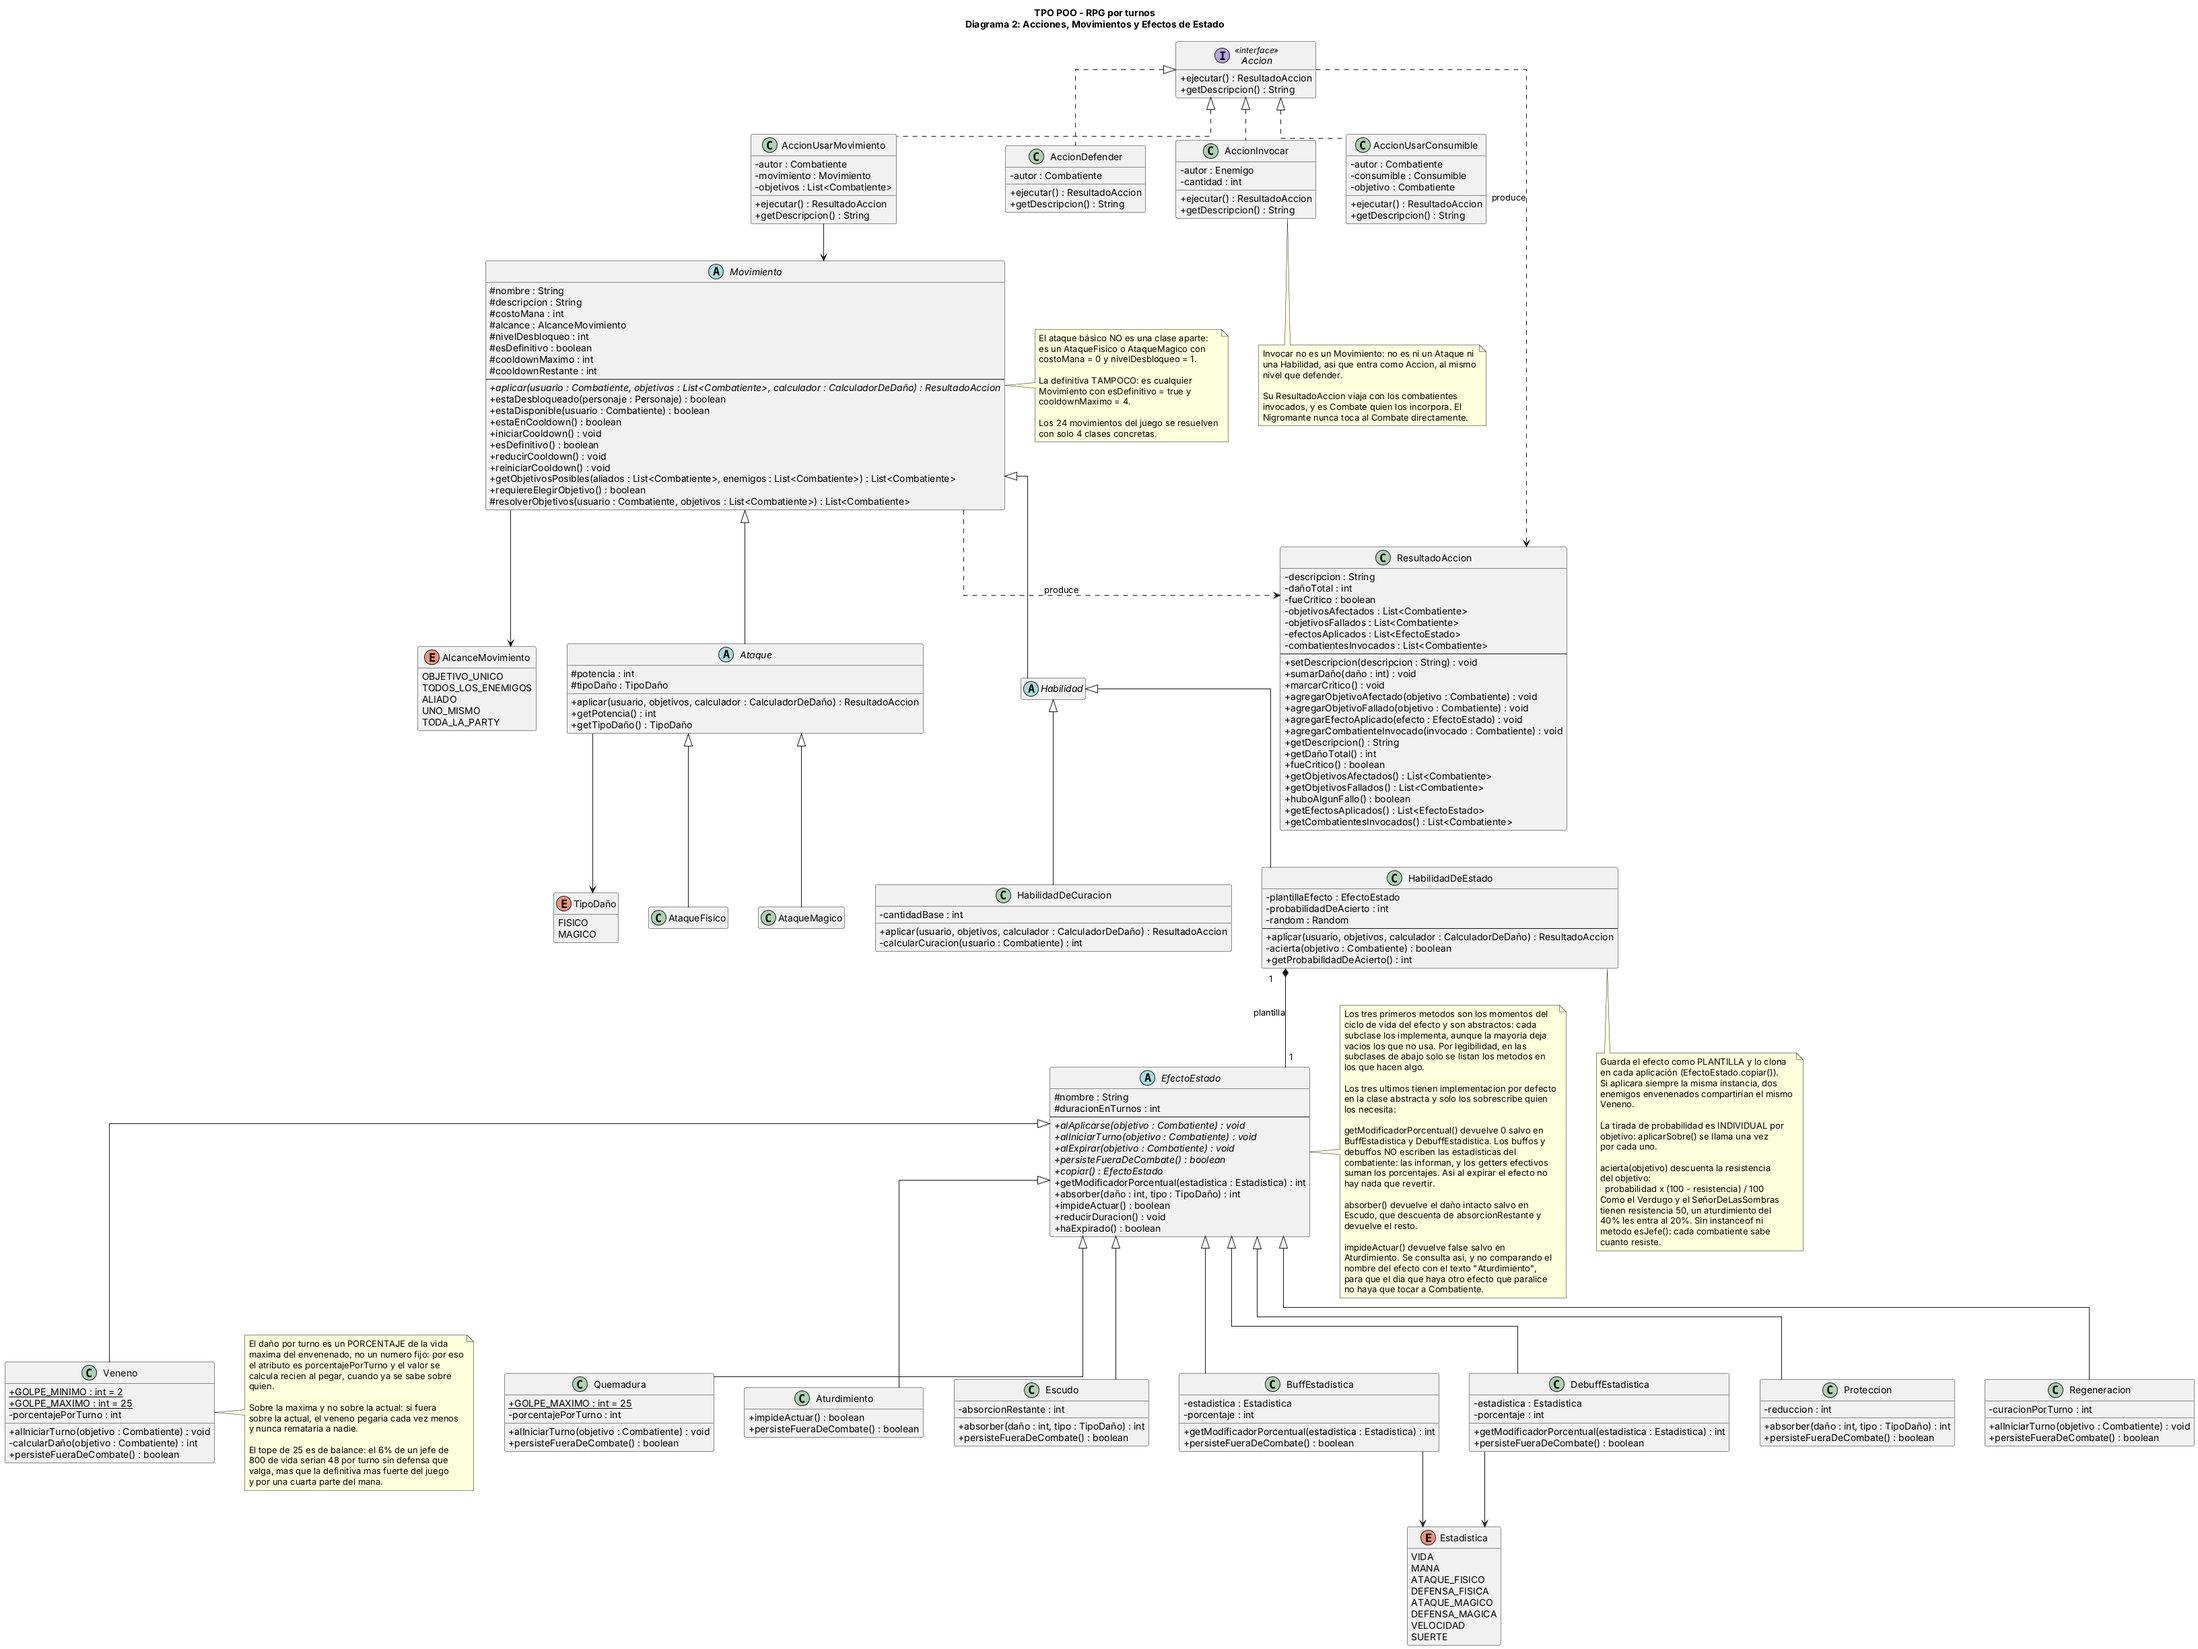
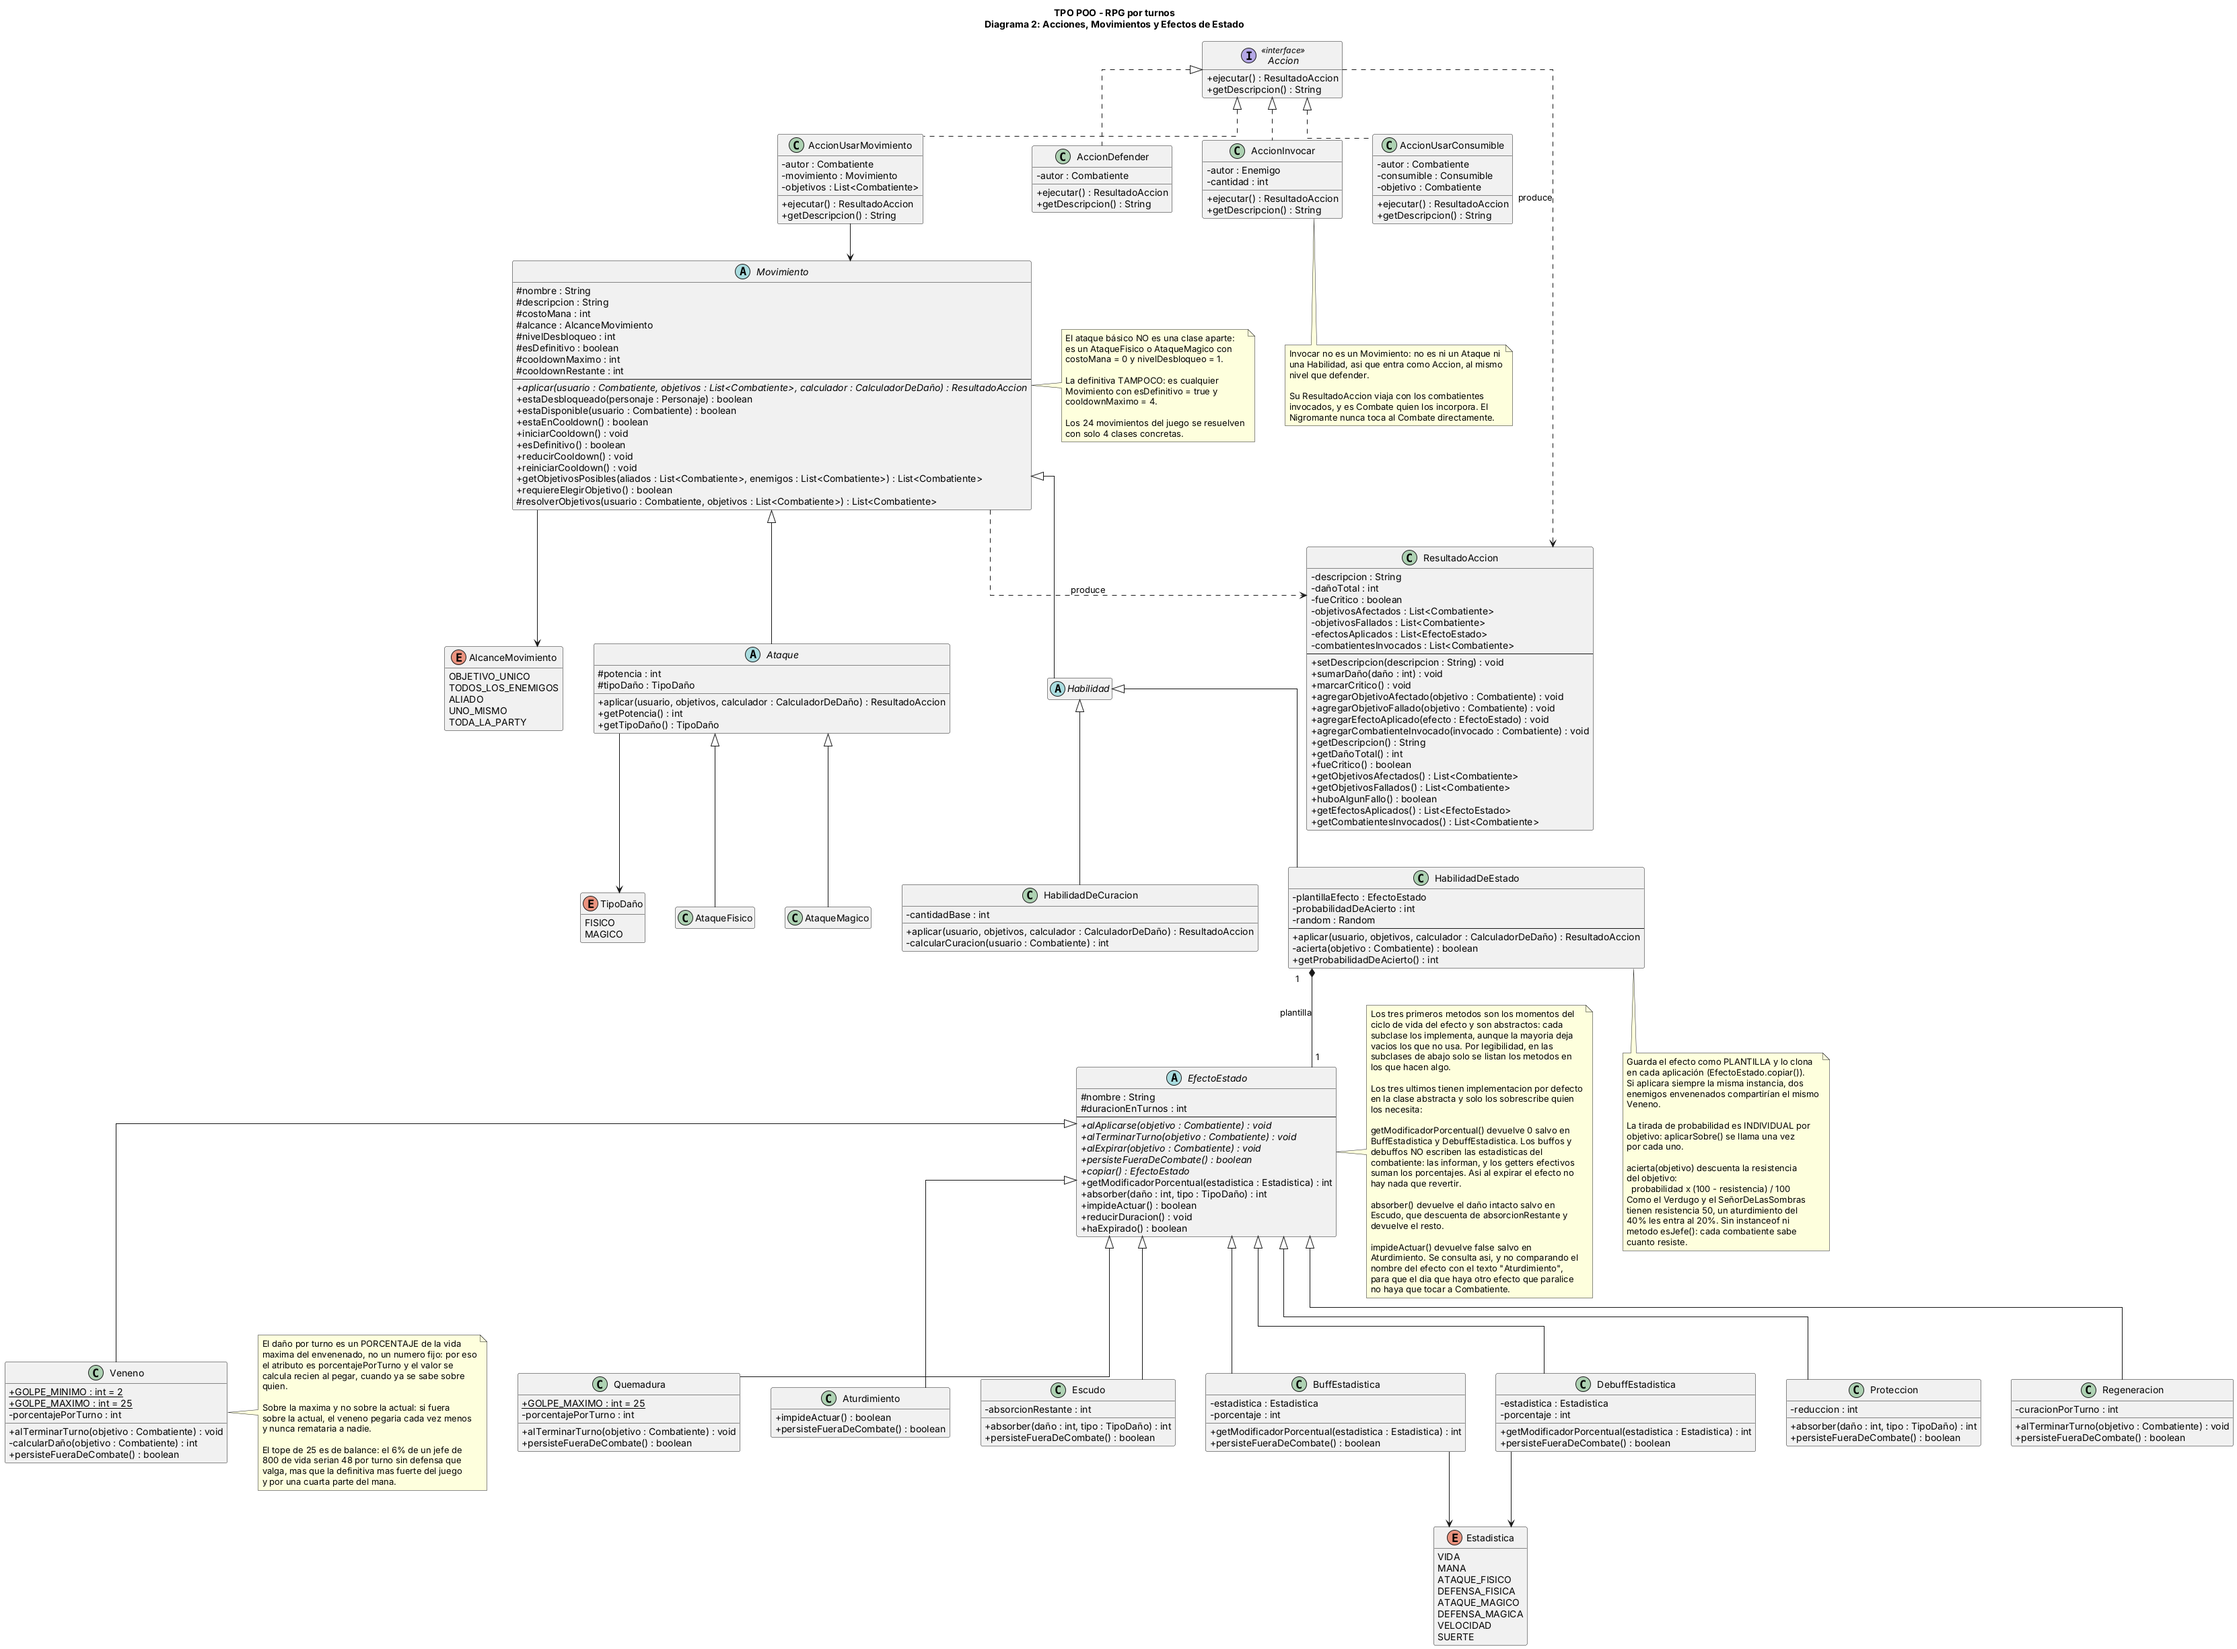
alIniciarTurno pasa a alTerminarTurno y ejecutarAccion abre el turno
- Desde el arreglo del ciclo de turnos el hook de los efectos corre al
  cerrar el turno: el nombre ahora lo dice (EfectoEstado, las 8
  subclases, Combatiente y el diagrama 2).
- Combate.ejecutarAccion() llama primero a getSiguienteEnActuar(): una
  Accion armada afuera ya no cierra el turno de quien actuo antes.
  Test nuevo en TurnosTest (falla sin el arreglo).

Claude-Session: https://claude.ai/code/session_014iKvqo4DemZrQdAbdPMr27

diff --git a/src/test/java/ar/edu/uade/rpg/TurnosTest.java b/src/test/java/ar/edu/uade/rpg/TurnosTest.java
@@ -119,6 +119,21 @@ class TurnosTest {
     }
 
     @Test
+    void unaAccionArmadaAfueraCierraElTurnoDeQuienCorresponde() {
+        Combate combate = combateContraUnBruto();
+        Combatiente primero = combate.getSiguienteEnActuar();
+        cerrarElTurnoActual(combate);
+
+        // El primero ya actuo. Se lo envenena y, SIN pedir el turno siguiente,
+        // se ejecuta una accion armada afuera: el cierre no le toca a el.
+        primero.aplicarEfecto(new Veneno(6, 3));
+        int vidaAntes = primero.getVidaActual();
+        combate.ejecutarAccion(new AccionDefender(primero));
+
+        assertEquals(vidaAntes, primero.getVidaActual(), "el veneno no le pega en un turno ajeno");
+    }
+
+    @Test
     void siCaeAlguienQueYaActuoElSiguienteNoPierdeSuTurno() {
         Guerrero lucas = new Guerrero("Lucas");
         Mago giovanni = new Mago("Giovanni");

diff --git a/src/main/java/ar/edu/uade/rpg/modelo/efectos/EfectoEstado.java b/src/main/java/ar/edu/uade/rpg/modelo/efectos/EfectoEstado.java
@@ -15,7 +15,8 @@ import ar.edu.uade.rpg.modelo.movimientos.Estadistica;
  *
  * Define tres momentos y cada subclase usa los que necesita:
  *   - alAplicarse:   una sola vez, cuando el efecto entra.
- *   - alIniciarTurno: al comienzo de cada turno del afectado.
+ *   - alTerminarTurno: al final de cada turno del afectado, lo haya jugado
+ *                    o lo haya perdido aturdido. El veneno pega aca.
  *   - alExpirar:     cuando el efecto se va.
  *
  * El Veneno solo usa el del medio; el Escudo usa el primero y el ultimo.
@@ -36,7 +37,7 @@ public abstract class EfectoEstado implements Serializable {
 
     public abstract void alAplicarse(Combatiente objetivo);
 
-    public abstract void alIniciarTurno(Combatiente objetivo);
+    public abstract void alTerminarTurno(Combatiente objetivo);
 
     public abstract void alExpirar(Combatiente objetivo);
 

diff --git a/src/main/java/ar/edu/uade/rpg/modelo/combatientes/Combatiente.java b/src/main/java/ar/edu/uade/rpg/modelo/combatientes/Combatiente.java
@@ -100,7 +100,7 @@ public abstract class Combatiente implements Serializable {
 
     /**
      * Daño que no pasa por defensas ni por escudos: el del veneno y el de la
-     * quemadura. Lo usan esos efectos desde su alIniciarTurno.
+     * quemadura. Lo usan esos efectos desde su alTerminarTurno.
      */
     public int recibirDañoDirecto(int daño) {
         int dañoAplicado = Math.min(daño, vidaActual);
@@ -211,7 +211,7 @@ public abstract class Combatiente implements Serializable {
         Iterator<EfectoEstado> iterador = efectosActivos.iterator();
         while (iterador.hasNext()) {
             EfectoEstado efecto = iterador.next();
-            efecto.alIniciarTurno(this);
+            efecto.alTerminarTurno(this);
             efecto.reducirDuracion();
             if (efecto.haExpirado()) {
                 efecto.alExpirar(this);

diff --git a/src/main/java/ar/edu/uade/rpg/modelo/efectos/Regeneracion.java b/src/main/java/ar/edu/uade/rpg/modelo/efectos/Regeneracion.java
@@ -3,7 +3,7 @@ package ar.edu.uade.rpg.modelo.efectos;
 import ar.edu.uade.rpg.modelo.combatientes.Combatiente;
 
 /**
- * Cura una cantidad fija al principio de cada turno del afectado. Es el
+ * Cura una cantidad fija al final de cada turno del afectado. Es el
  * espejo del Veneno. Ningun movimiento de las seis clases lo aplica: queda
  * para los consumibles de la tienda.
  */
@@ -22,7 +22,7 @@ public class Regeneracion extends EfectoEstado {
     }
 
     @Override
-    public void alIniciarTurno(Combatiente objetivo) {
+    public void alTerminarTurno(Combatiente objetivo) {
         objetivo.curar(curacionPorTurno);
     }
 

diff --git a/src/main/java/ar/edu/uade/rpg/modelo/combate/Combate.java b/src/main/java/ar/edu/uade/rpg/modelo/combate/Combate.java
@@ -203,8 +203,13 @@ public class Combate {
         return objetivos;
     }
 
-    /** El unico camino por el que pasa todo lo que se hace en un turno. */
+    /**
+     * El unico camino por el que pasa todo lo que se hace en un turno. Primero
+     * se asegura de que el turno este abierto, asi el cierre (avanzarTurno) se
+     * le aplica a quien corresponde aunque la Accion se haya armado afuera.
+     */
     public ResultadoAccion ejecutarAccion(Accion accion) {
+        getSiguienteEnActuar();
         ResultadoAccion resultado = accion.ejecutar();
         registro.add(resultado.getDescripcion());
 

diff --git a/src/main/java/ar/edu/uade/rpg/modelo/efectos/Quemadura.java b/src/main/java/ar/edu/uade/rpg/modelo/efectos/Quemadura.java
@@ -28,7 +28,7 @@ public class Quemadura extends EfectoEstado {
     }
 
     @Override
-    public void alIniciarTurno(Combatiente objetivo) {
+    public void alTerminarTurno(Combatiente objetivo) {
         int daño = objetivo.getVidaMaxima() * porcentajePorTurno / PORCENTAJE_TOTAL;
         objetivo.recibirDañoDirecto(Math.min(daño, GOLPE_MAXIMO));
     }

diff --git a/src/main/java/ar/edu/uade/rpg/modelo/efectos/DebuffEstadistica.java b/src/main/java/ar/edu/uade/rpg/modelo/efectos/DebuffEstadistica.java
@@ -36,7 +36,7 @@ public class DebuffEstadistica extends EfectoEstado {
     }
 
     @Override
-    public void alIniciarTurno(Combatiente objetivo) {
+    public void alTerminarTurno(Combatiente objetivo) {
         // Nada: no actua por turno, modifica mientras dura.
     }
 

diff --git a/src/main/java/ar/edu/uade/rpg/modelo/efectos/Aturdimiento.java b/src/main/java/ar/edu/uade/rpg/modelo/efectos/Aturdimiento.java
@@ -23,7 +23,7 @@ public class Aturdimiento extends EfectoEstado {
     }
 
     @Override
-    public void alIniciarTurno(Combatiente objetivo) {
+    public void alTerminarTurno(Combatiente objetivo) {
         // No hace daño: su efecto es que el turno no se juega.
     }
 

diff --git a/src/main/java/ar/edu/uade/rpg/modelo/efectos/BuffEstadistica.java b/src/main/java/ar/edu/uade/rpg/modelo/efectos/BuffEstadistica.java
@@ -34,7 +34,7 @@ public class BuffEstadistica extends EfectoEstado {
     }
 
     @Override
-    public void alIniciarTurno(Combatiente objetivo) {
+    public void alTerminarTurno(Combatiente objetivo) {
         // Nada: no actua por turno, modifica mientras dura.
     }
 

diff --git a/src/main/java/ar/edu/uade/rpg/modelo/efectos/Veneno.java b/src/main/java/ar/edu/uade/rpg/modelo/efectos/Veneno.java
@@ -34,7 +34,7 @@ public class Veneno extends EfectoEstado {
     }
 
     @Override
-    public void alIniciarTurno(Combatiente objetivo) {
+    public void alTerminarTurno(Combatiente objetivo) {
         objetivo.recibirDañoDirecto(calcularDaño(objetivo));
     }
 

diff --git a/src/main/java/ar/edu/uade/rpg/modelo/efectos/Escudo.java b/src/main/java/ar/edu/uade/rpg/modelo/efectos/Escudo.java
@@ -35,7 +35,7 @@ public class Escudo extends EfectoEstado {
     }
 
     @Override
-    public void alIniciarTurno(Combatiente objetivo) {
+    public void alTerminarTurno(Combatiente objetivo) {
         // No se regenera: lo que se gasto, se gasto.
     }
 

diff --git a/src/main/java/ar/edu/uade/rpg/modelo/efectos/Proteccion.java b/src/main/java/ar/edu/uade/rpg/modelo/efectos/Proteccion.java
@@ -37,7 +37,7 @@ public class Proteccion extends EfectoEstado {
     }
 
     @Override
-    public void alIniciarTurno(Combatiente objetivo) {
+    public void alTerminarTurno(Combatiente objetivo) {
         // No actua por turno.
     }
 
